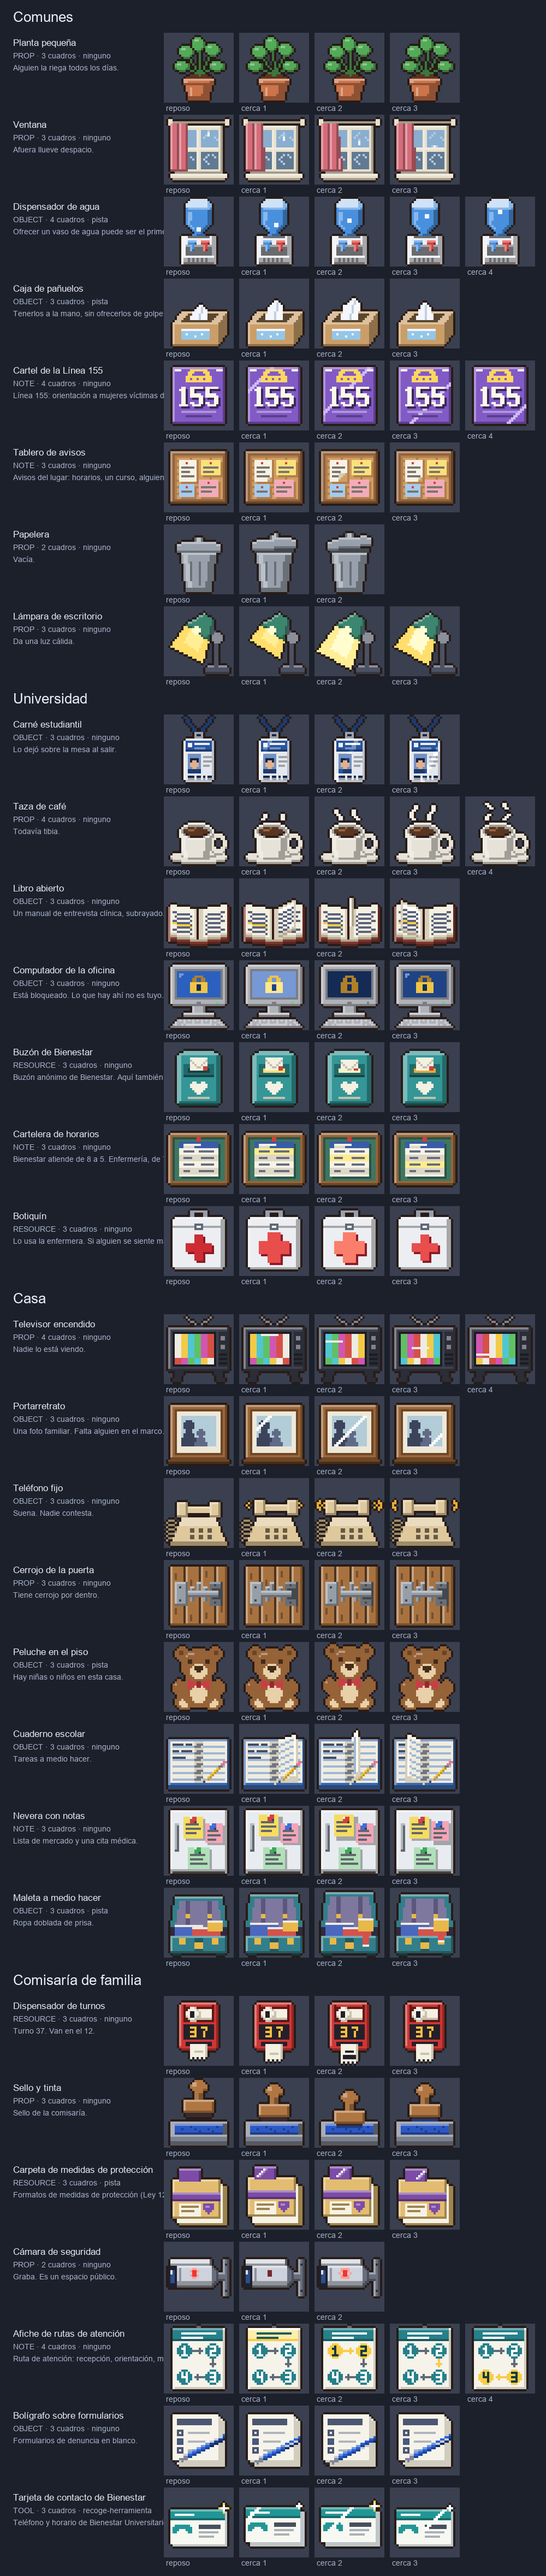
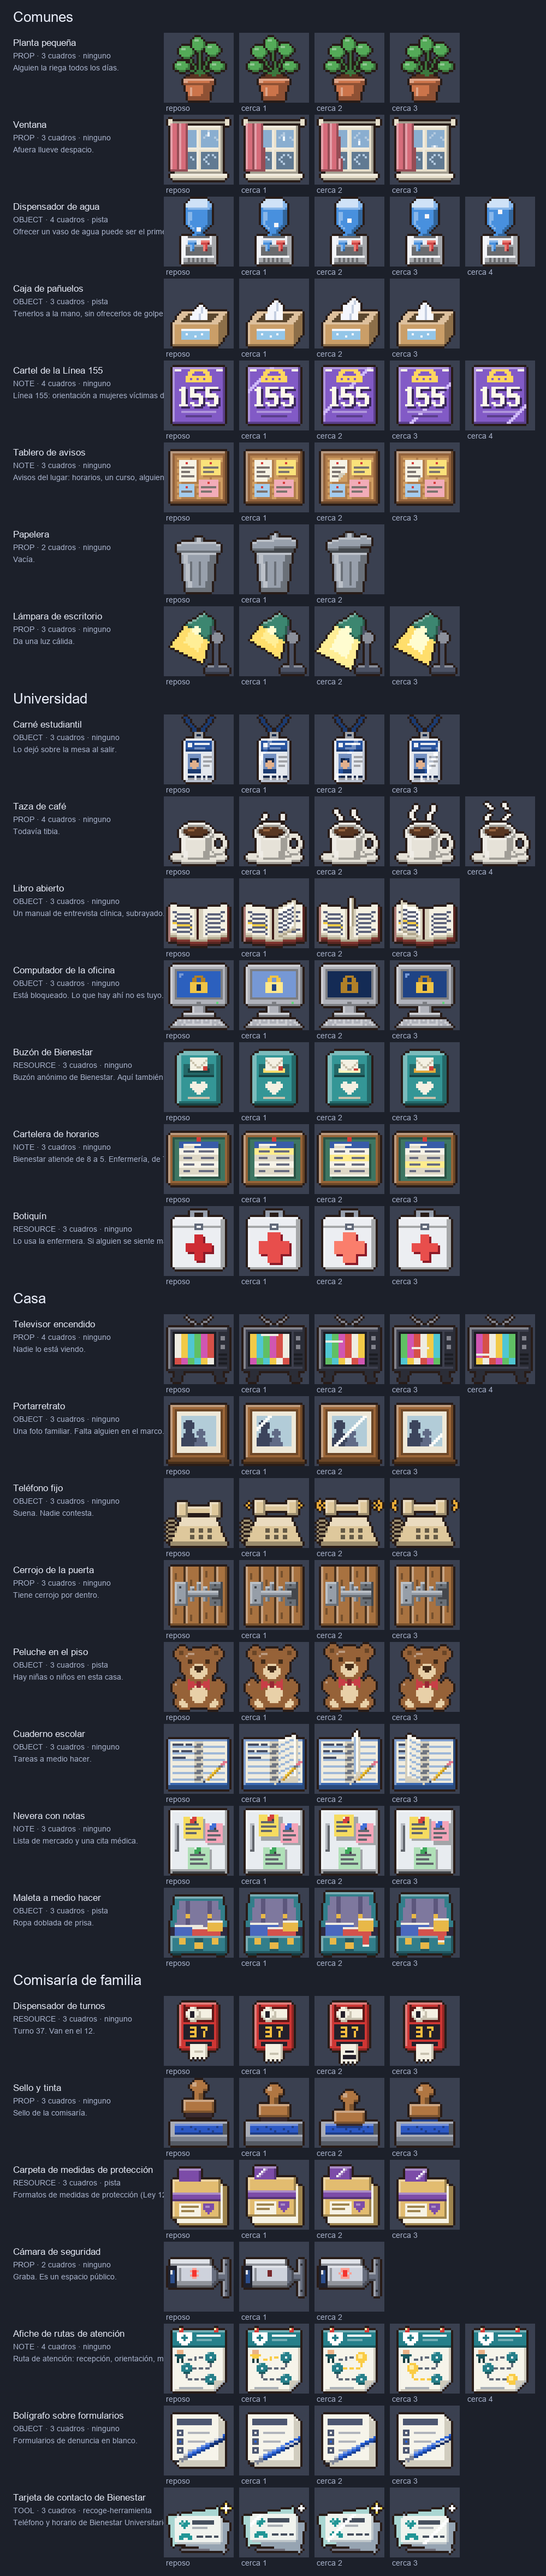
fix(biblioteca): afiche de rutas y tarjeta de contacto refinados; la maleta vuelve a su versión anterior
En la prueba a ciegas la maleta refinada se leyó como un auto de frente (broches y ruedas parecen
faros y llantas); la versión anterior se reconocía como maleta. El afiche ahora es un cartel colgado
con un camino entre hitos y la tarjeta un abanico de tarjetas de presentación.

diff --git a/tools/escenarios/arte_objetos/comisaria.py b/tools/escenarios/arte_objetos/comisaria.py
@@ -169,42 +169,79 @@ def camara_seguridad():
 # ── afiche de rutas de atención ────────────────────────────────────────────────
 
 def afiche_rutas_atencion():
-    """Afiche con encabezado y cuatro pasos numerados unidos por flechas; el brillo baja iluminándolos."""
+    """Afiche colgado con chinches, esquina doblada, escudo en el encabezado y un camino punteado
+    que serpentea desde una persona por tres hitos; el brillo baja por el camino iluminándolos."""
     papel, papel_s = (246, 244, 234), (206, 202, 188)
     teal = tonos((38, 128, 138))
-    flecha = (96, 106, 120)
+    camino, linea = (96, 106, 120), (170, 176, 182)
     oro, oro_c = (250, 204, 70), (255, 238, 170)
-    blanco = (255, 255, 255)
-    digitos = {
-        1: ('.X.', 'XX.', '.X.', '.X.', 'XXX'),
-        2: ('XXX', '..X', 'XXX', 'X..', 'XXX'),
-        3: ('XXX', '..X', 'XXX', '..X', 'XXX'),
-        4: ('X.X', 'X.X', 'XXX', '..X', '..X'),
-    }
+    blanco, rojo, piel = (255, 255, 255), (214, 58, 56), (236, 178, 134)
+    escudo = ('XXXXXXX', 'XXXXXXX', 'XXXXXXX', 'XXXXXXX', '.XXXXX.', '..XXX..')
+    persona = ('.PPP.', '.PPP.', 'TTTTT', '.TTT.', '.L.L.', '.L.L.')
+    hitos = ((21, 15), (10, 20), (21, 25))
 
-    def paso(d, n, cx, cy, encendido):
-        E(d, cx - 3, cy - 3, cx + 3, cy + 3, oro if encendido else teal[1])
-        _mapa(d, cx - 1, cy - 2, digitos[n], {'X': teal[3] if encendido else blanco})
+    def bezier(p0, p1, p2, p3, n=80):
+        pts = []
+        for i in range(n + 1):
+            t = i / n
+            u = 1 - t
+            x = u ** 3 * p0[0] + 3 * u * u * t * p1[0] + 3 * u * t * t * p2[0] + t ** 3 * p3[0]
+            y = u ** 3 * p0[1] + 3 * u * u * t * p1[1] + 3 * u * t * t * p2[1] + t ** 3 * p3[1]
+            q = (int(round(x)), int(round(y)))
+            if not pts or pts[-1] != q:
+                pts.append(q)
+        return pts
+
+    tramos = [
+        bezier((11, 16), (13, 16), (15, 15), (18, 15), 30),
+        bezier((21, 18), (21, 20), (17, 20), (13, 20)),
+        bezier((10, 23), (10, 25), (14, 25), (18, 25)),
+    ]
+
+    def hito(d, cx, cy, encendido):
+        for (x0, y0, x1, y1) in ((cx - 1, cy - 2, cx + 1, cy + 2), (cx - 2, cy - 1, cx + 2, cy + 1)):
+            R(d, x0, y0, x1, y1, oro if encendido else teal[1])
+        if encendido:
+            R(d, cx - 1, cy - 1, cx, cy, oro_c)
+        else:
+            R(d, cx - 1, cy + 2, cx + 1, cy + 2, teal[2]); P(d, cx + 2, cy + 1, teal[2])
+            P(d, cx, cy, blanco); P(d, cx - 1, cy - 2, teal[0])
 
     def dibujar(k):
         im, d = lienzo()
-        # k: 1 encabezado, 2 fila de arriba, 3 flecha central, 4 fila de abajo
-        R(d, 4, 2, 27, 29, papel); R(d, 27, 3, 27, 29, papel_s); R(d, 5, 29, 27, 29, papel_s)
-        P(d, 15, 1, flecha); P(d, 16, 1, flecha)                       # chinche
-        # encabezado
-        R(d, 4, 2, 26, 7, oro_c if k == 1 else teal[1])
-        R(d, 4, 2, 26, 2, blanco if k == 1 else teal[0]); R(d, 4, 7, 26, 7, oro if k == 1 else teal[2])
-        R(d, 8, 4, 23, 4, teal[2] if k == 1 else blanco); R(d, 8, 6, 17, 6, teal[2] if k == 1 else blanco)
-        # pasos en zigzag: 1 arriba-izquierda, 2 arriba-derecha, 3 abajo-derecha, 4 abajo-izquierda
-        fila1, fila2 = k == 2, k == 4
-        paso(d, 1, 9, 12, fila1); paso(d, 2, 22, 12, fila1)
-        paso(d, 3, 22, 24, fila2); paso(d, 4, 9, 24, fila2)
-        a1 = oro if fila1 else flecha                                   # flecha hacia la derecha
-        R(d, 13, 12, 16, 12, a1); R(d, 16, 11, 16, 13, a1); P(d, 17, 12, a1)
-        a2 = oro if k == 3 else flecha                                  # flecha hacia abajo
-        R(d, 22, 16, 22, 18, a2); R(d, 21, 18, 23, 18, a2); P(d, 22, 19, a2)
-        a3 = oro if fila2 else flecha                                   # flecha hacia la izquierda
-        R(d, 15, 24, 18, 24, a3); R(d, 15, 23, 15, 25, a3); P(d, 14, 24, a3)
+        # papel con sombra a la derecha y abajo
+        R(d, 4, 3, 27, 30, papel); R(d, 27, 4, 27, 30, papel_s); R(d, 5, 30, 27, 30, papel_s)
+        # encabezado con escudo y título
+        R(d, 4, 3, 27, 10, teal[1]); R(d, 4, 3, 27, 3, teal[0]); R(d, 4, 10, 27, 10, teal[2])
+        _mapa(d, 6, 4, escudo, {'X': blanco})
+        for x, y in ((9, 5), (8, 6), (9, 6), (10, 6), (9, 7)):
+            P(d, x, y, teal[1])
+        R(d, 15, 5, 25, 5, blanco); R(d, 15, 7, 21, 7, teal[0])
+        # dos chinches
+        for x in (7, 23):
+            R(d, x, 2, x + 1, 3, rojo); P(d, x, 2, oro_c)
+        # persona al inicio del camino
+        _mapa(d, 5, 12, persona, {'P': piel, 'T': oro if k == 1 else teal[2], 'L': teal[3]})
+        # camino punteado: el tramo del hito iluminado se enciende
+        for i, tramo in enumerate(tramos):
+            c = oro if k == i + 1 else camino
+            for j, (x, y) in enumerate(tramo):
+                if j % 3 != 2:
+                    P(d, x, y, c)
+        for i, (cx, cy) in enumerate(hitos):
+            hito(d, cx, cy, k == i + 2 or (i == 0 and False))
+        # pie con una línea de texto
+        R(d, 7, 29, 17, 29, linea)
+        # esquina inferior derecha doblada
+        for a in range(5):
+            for b in range(5):
+                x, y = 27 - a, 30 - b
+                if a + b < 4:
+                    d.point((x, y), fill=(0, 0, 0, 0))
+                elif a + b == 4:
+                    P(d, x, y, linea)
+                else:
+                    P(d, x, y, papel_s)
         return im
     return cuadros(4, dibujar)
 
@@ -255,12 +292,26 @@ def boligrafo_formularios():
 # ── tarjeta de contacto de Bienestar ───────────────────────────────────────────
 
 def tarjeta_contacto_bienestar():
-    """Tarjeta blanca con franja verde azulada y un teléfono; brilla y se eleva."""
-    blanca, borde = (248, 248, 242), (190, 198, 202)
+    """Tres tarjetas de presentación en abanico (la de arriba completa, con logo, nombre y teléfono),
+    con sombra sobre la mesa; se eleva 1 px y un brillo la recorre. Chispa de herramienta recogible."""
+    from math import cos, radians, sin
+    cara, borde = (240, 243, 238), (190, 198, 202)
+    atras_a, atras_b = (170, 214, 210), (150, 164, 178)
+    sombra = (112, 114, 126)
     teal = tonos((34, 150, 150))
     texto, fino = (70, 80, 94), (170, 176, 182)
     oro, brillo = (255, 214, 82), (255, 255, 255)
-    auricular = ('.XXXXXXX.', 'XXXXXXXXX', 'XXX...XXX', 'XX.....XX')
+    corazon = ('.X.X.', 'XXXXX', '.XXX.', '..X..')
+    auricular = ('.XXXX.', 'XXXXXX', 'XX..XX')
+    x0, x1, base = 5, 26, 13
+    tinta_tarjeta = {cara, borde, texto, fino, teal[0], teal[1]}
+
+    def inclinada(d, cx, cy, ang, c):
+        t = radians(ang)
+        pts = []
+        for sx, sy in ((-11.2, -6.7), (11.2, -6.7), (11.2, 6.7), (-11.2, 6.7)):
+            pts.append((cx + sx * cos(t) - sy * sin(t), cy + sx * sin(t) + sy * cos(t)))
+        POL(d, pts, c)
 
     def estrella(d, cx, cy, largo):
         P(d, cx, cy, brillo)
@@ -270,27 +321,32 @@ def tarjeta_contacto_bienestar():
 
     def dibujar(k):
         im, d = lienzo()
-        sube = (0, 1, 1, 0)[k]          # la tarjeta se eleva 1 px
-        y = 10 - sube
-        # canto de la tarjeta (más grueso cuando se eleva) y cara
-        t = 1 + sube
-        R(d, 3 + t, y + t, 27 + t, y + 15 + t, borde); R(d, 3, y, 27, y + 15, blanca)
-        # franja verde azulada con el título
-        R(d, 3, y, 27, y + 4, teal[1]); R(d, 3, y, 27, y, teal[0]); R(d, 3, y + 4, 27, y + 4, teal[2])
-        R(d, 5, y + 2, 13, y + 2, blanca)
-        # teléfono y texto simulado
-        _mapa(d, 4, y + 7, auricular, {'X': teal[1]})
-        R(d, 16, y + 7, 25, y + 8, texto); R(d, 16, y + 10, 24, y + 10, fino)
-        R(d, 16, y + 12, 22, y + 12, fino)
-        # destello en diagonal: solo se ve sobre lo que tiene color
+        sube = (0, 1, 1, 0)[k]          # la tarjeta de arriba se eleva 1 px
+        y = base - sube
+        # sombra de 1 px sobre la mesa
+        R(d, 8, 28, 28, 28, sombra)
+        # tarjetas de atrás, en abanico
+        inclinada(d, 17, 21, 9, atras_b)
+        inclinada(d, 14.5, 18, -10, atras_a)
+        # tarjeta de arriba con esquinas redondeadas y canto abajo-derecha
+        R(d, x0 + 1, y, x1 - 1, y + 12, cara); R(d, x0, y + 1, x1, y + 11, cara)
+        R(d, x0 + 1, y + 12, x1 - 1, y + 12, borde); R(d, x1, y + 1, x1, y + 11, borde)
+        # logo (corazón) y dos renglones de nombre
+        _mapa(d, 7, y + 2, corazon, {'X': teal[1]}); P(d, 8, y + 3, teal[0])
+        R(d, 13, y + 2, 22, y + 3, texto); R(d, 13, y + 5, 19, y + 5, fino)
+        # teléfono y renglón de números
+        _mapa(d, 7, y + 8, auricular, {'X': teal[1]})
+        for a, b in ((15, 17), (19, 21), (23, 24)):
+            R(d, a, y + 9, b, y + 9, texto)
+        # destello en diagonal sobre la tarjeta de arriba
         if k:
-            cx = (0, 8, 16, 24)[k]
-            for fila in range(16):
+            cx = x0 + (4, 12, 22)[k - 1]
+            for fila in range(13):
                 for x in (cx - fila, cx - fila + 1):
-                    if 3 <= x <= 27 and im.getpixel((x, y + fila))[:3] != blanca:
+                    if x0 <= x <= x1 and im.getpixel((x, y + fila))[:3] in tinta_tarjeta:
                         P(d, x, y + fila, brillo)
         # chispa de herramienta recogible, en la esquina
-        estrella(d, 27, y - 1, 2 if k in (0, 2) else 1)
+        estrella(d, 28, 9, 2 if k in (0, 2) else 1)
         return im
     return cuadros(3, dibujar)
 

diff --git a/tools/escenarios/arte_objetos/casa.py b/tools/escenarios/arte_objetos/casa.py
@@ -281,62 +281,37 @@ def nevera_notas():
 
 @_modelo('maleta')
 def maleta():
-    """Maleta de viaje baja y ancha, abierta a medias con ropa doblada en capas; al acercarse la tapa sube y asoma más ropa."""
+    """Maleta de viaje abierta a medias con ropa doblada de prisa; al acercarse la tapa sube y asoma más ropa."""
     cas = tonos((50, 126, 138))
     forro, forro2, hueco = (126, 120, 158), (92, 86, 124), (46, 42, 64)
     azul, roja, mostaza, crema = (74, 104, 190), (212, 82, 76), (232, 184, 72), (238, 234, 224)
-    metal, metal2 = (206, 214, 228), (112, 122, 142)                                          # herrajes: claro y sombra
-
-    def quitar(d, x, y):
-        d.point((x, y), fill=(0, 0, 0, 0))
-
-    def prenda(d, x0, x1, y0, c):
-        """Ropa doblada en capas: pliegue crema arriba, dos filas de tela y una rendija oscura entre capas."""
-        R(d, x0, y0, x1, 21, c)
-        R(d, x0, y0, x1, y0, crema)
-        for y in range(y0 + 3, 22, 3):
-            R(d, x0, y, x1, y, hueco)
 
     def dibujar(k):
         im, d = lienzo()
         alza = (0, 1, 2, 1)[k]
-        top = 8 - alza
-        # tapa abierta hacia atrás: casco redondeado por fuera, forro acolchado por dentro
-        POL(d, [(6, top), (25, top), (26, top + 1), (29, 17), (2, 17), (5, top + 1)], cas[1])
-        POL(d, [(7, top + 2), (24, top + 2), (25, top + 3), (28, 17), (3, 17), (6, top + 3)], forro)
-        R(d, 6, top, 25, top, cas[0]); R(d, 2, 17, 29, 17, cas[2])
-        for x in (8, 23):                                                                    # correas elásticas del forro
-            R(d, x, top + 3, x, 16, forro2); R(d, x, 13, x, 14, mostaza)
-        R(d, 11, top + 3, 20, top + 5, forro2); R(d, 11, top + 3, 20, top + 3, metal)         # bolsillo con cierre
-        R(d, 19, top + 4, 20, top + 4, metal)
-        # asa rígida en el canto superior de la tapa: arco de 2 px
-        R(d, 13, top - 3, 18, top - 3, metal2); R(d, 13, top - 3, 15, top - 3, metal)
-        R(d, 12, top - 2, 13, top - 2, metal2); R(d, 18, top - 2, 19, top - 2, metal2)
-        R(d, 11, top - 1, 12, top - 1, metal2); R(d, 19, top - 1, 20, top - 1, metal2)
-        # hueco de la base y la ropa doblada que asoma, por capas
-        R(d, 2, 17, 29, 21, hueco)
+        top = 4 - alza
+        # tapa abierta hacia atrás: casco por fuera, forro por dentro
+        POL(d, [(5, top), (26, top), (28, 18), (3, 18)], cas[1])
+        POL(d, [(7, top + 2), (24, top + 2), (26, 18), (5, 18)], forro)
+        R(d, 5, top, 26, top, cas[0]); R(d, 3, 18, 28, 18, cas[2])
+        for x in (10, 20):                                                                   # correas elásticas del forro
+            R(d, x, top + 2, x + 1, 17, forro2); R(d, x, 12, x + 1, 13, mostaza)
+        # hueco de la base y la ropa que asoma
+        R(d, 3, 18, 28, 23, hueco)
         b = 1 if k else 0
-        m = 15 - (1 if k >= 2 else 0)
-        prenda(d, 4, 15, 16 - b, azul)
-        prenda(d, 18, 27, m, mostaza)
-        prenda(d, 10, 21, 18, roja)
-        # frente de la base, con esquinas protectoras redondeadas
-        R(d, 2, 22, 29, 27, cas[1])
-        R(d, 2, 22, 29, 22, cas[0]); R(d, 2, 22, 2, 27, cas[0])
-        R(d, 2, 27, 29, 27, cas[2]); R(d, 29, 22, 29, 27, cas[2])
-        for x in (12, 19):                                                                   # nervios del casco
-            R(d, x, 24, x, 26, cas[2])
-        for x0, x1 in ((2, 5), (26, 29)):                                                    # esquinas de metal
-            R(d, x0, 24, x1, 27, metal2)
-        P(d, 3, 24, metal); P(d, 27, 24, metal)
-        for x in (2, 29):
-            quitar(d, x, 27)
-        for x in (6, 22):                                                                    # broches metálicos claros
-            R(d, x, 22, x + 3, 25, metal); R(d, x, 25, x + 3, 25, metal2)
-            R(d, x + 1, 23, x + 2, 23, hueco)
-        for x in (4, 25):                                                                    # ruedecitas
-            R(d, x, 28, x + 2, 30, hueco); quitar(d, x, 30); quitar(d, x + 2, 30); P(d, x + 1, 29, metal2)
+        R(d, 5, 17 - b, 17, 22, azul); R(d, 5, 17 - b, 17, 17 - b, crema)
+        R(d, 13, 18, 25, 22, roja); R(d, 13, 18, 25, 18, crema)
+        R(d, 20, 15 - (1 if k >= 2 else 0), 26, 19, mostaza); R(d, 20, 15 - (1 if k >= 2 else 0), 26, 15 - (1 if k >= 2 else 0), crema)
+        # frente de la base
+        R(d, 3, 22, 28, 29, cas[1])
+        R(d, 3, 22, 28, 22, cas[0]); R(d, 3, 22, 3, 29, cas[0])
+        R(d, 3, 29, 28, 29, cas[2]); R(d, 28, 22, 28, 29, cas[2])
+        R(d, 14, 23, 17, 29, cas[2])                                                          # correa central
+        R(d, 14, 25, 17, 27, mostaza)
+        for x in (7, 22):
+            R(d, x, 23, x + 2, 25, mostaza)                                                  # broches
+        R(d, 4, 30, 7, 30, cas[3]); R(d, 24, 30, 27, 30, cas[3])                              # patitas
         if k >= 2:                                                                           # una manga cuelga por el frente
-            R(d, 14, 22, 16, 23 + (3 if k == 2 else 1), roja); R(d, 14, 24 + (2 if k == 2 else 0), 16, 24 + (2 if k == 2 else 0), crema)
+            R(d, 22, 22, 24, 23 + (3 if k == 2 else 1), roja); R(d, 22, 24 + (2 if k == 2 else 0), 24, 24 + (2 if k == 2 else 0), crema)
         return im
     return cuadros(3, dibujar)
